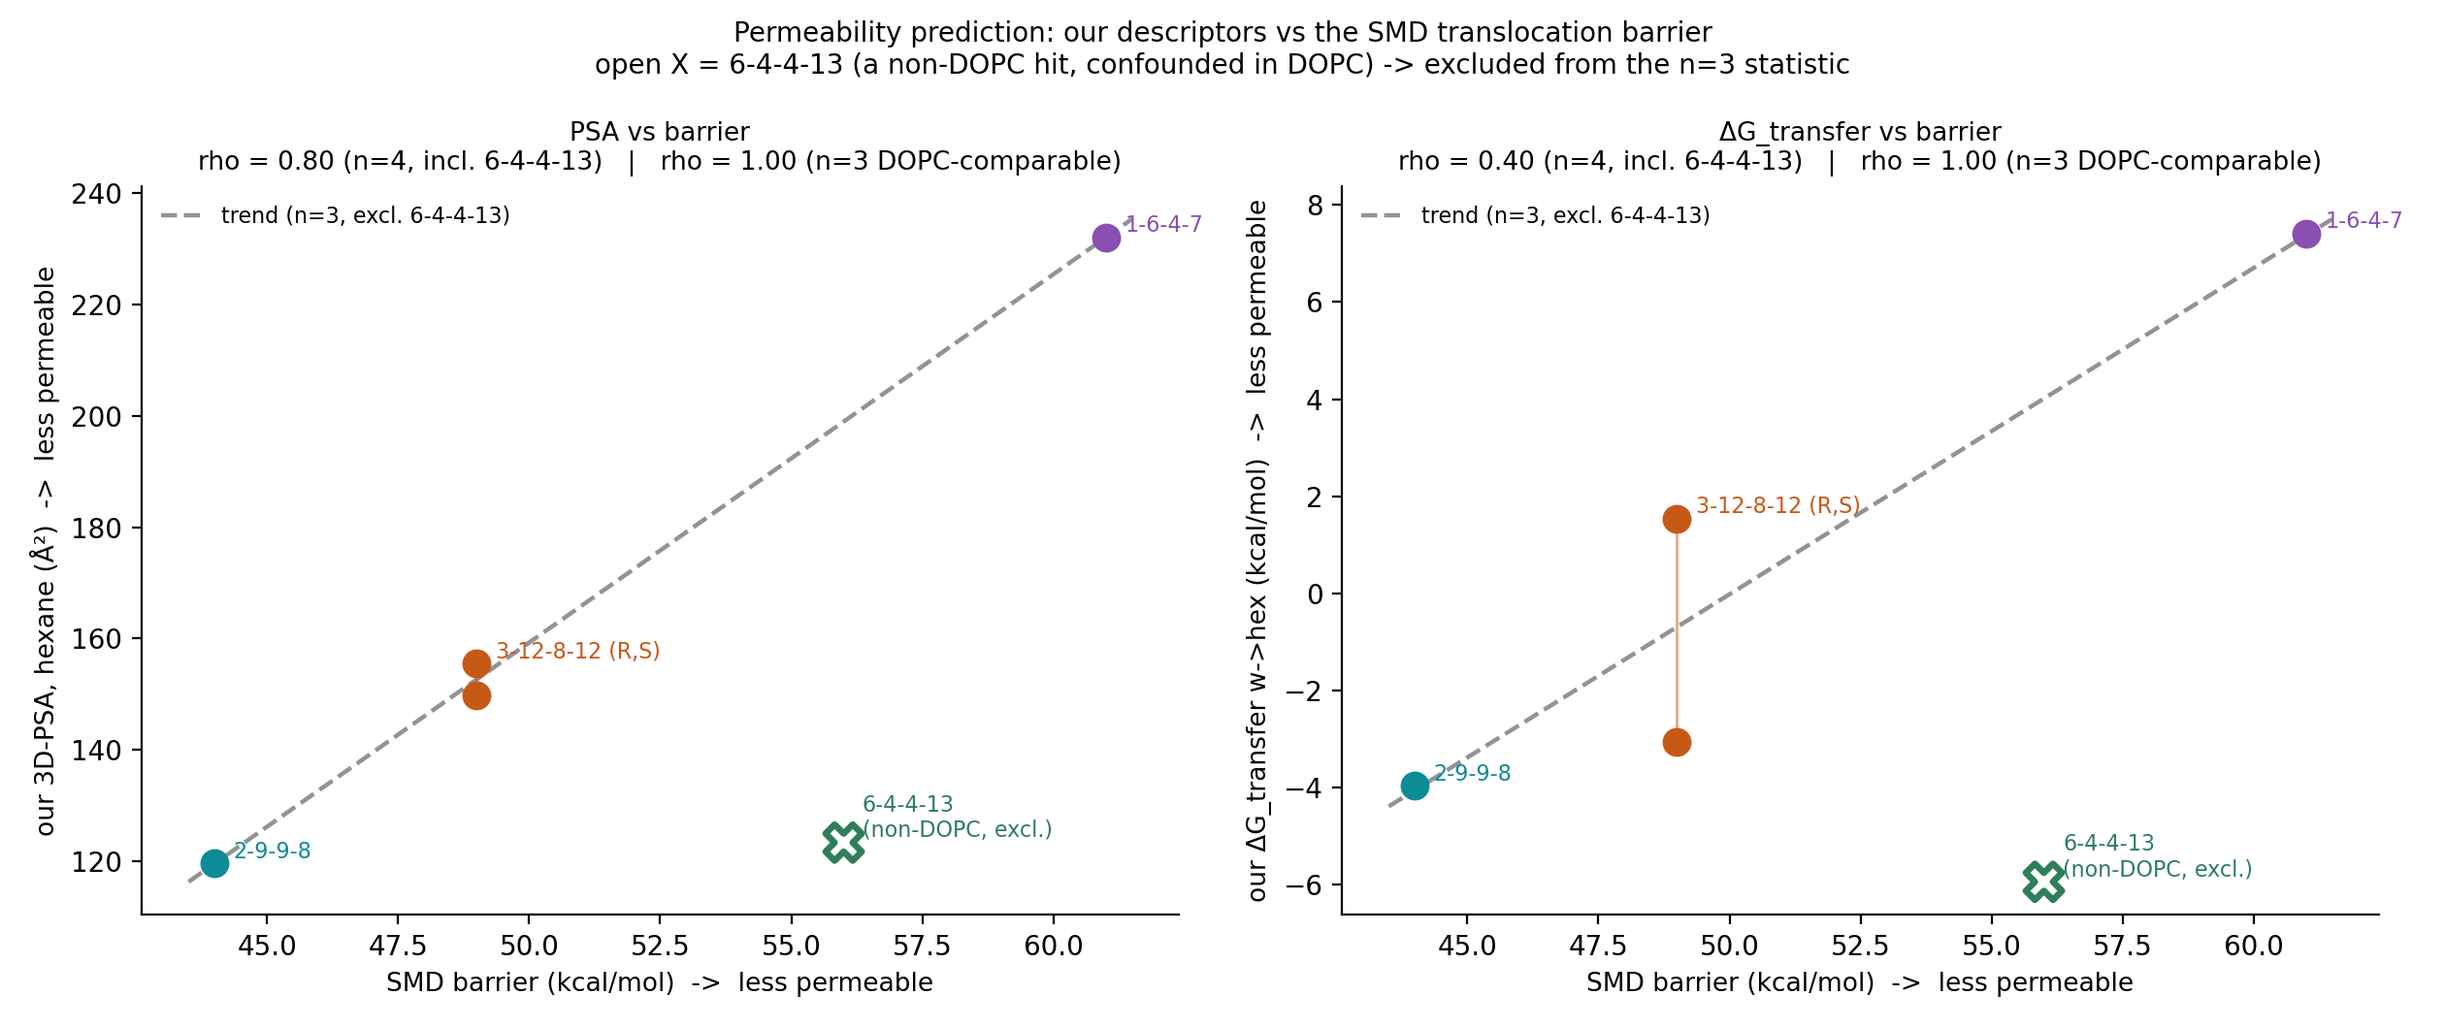
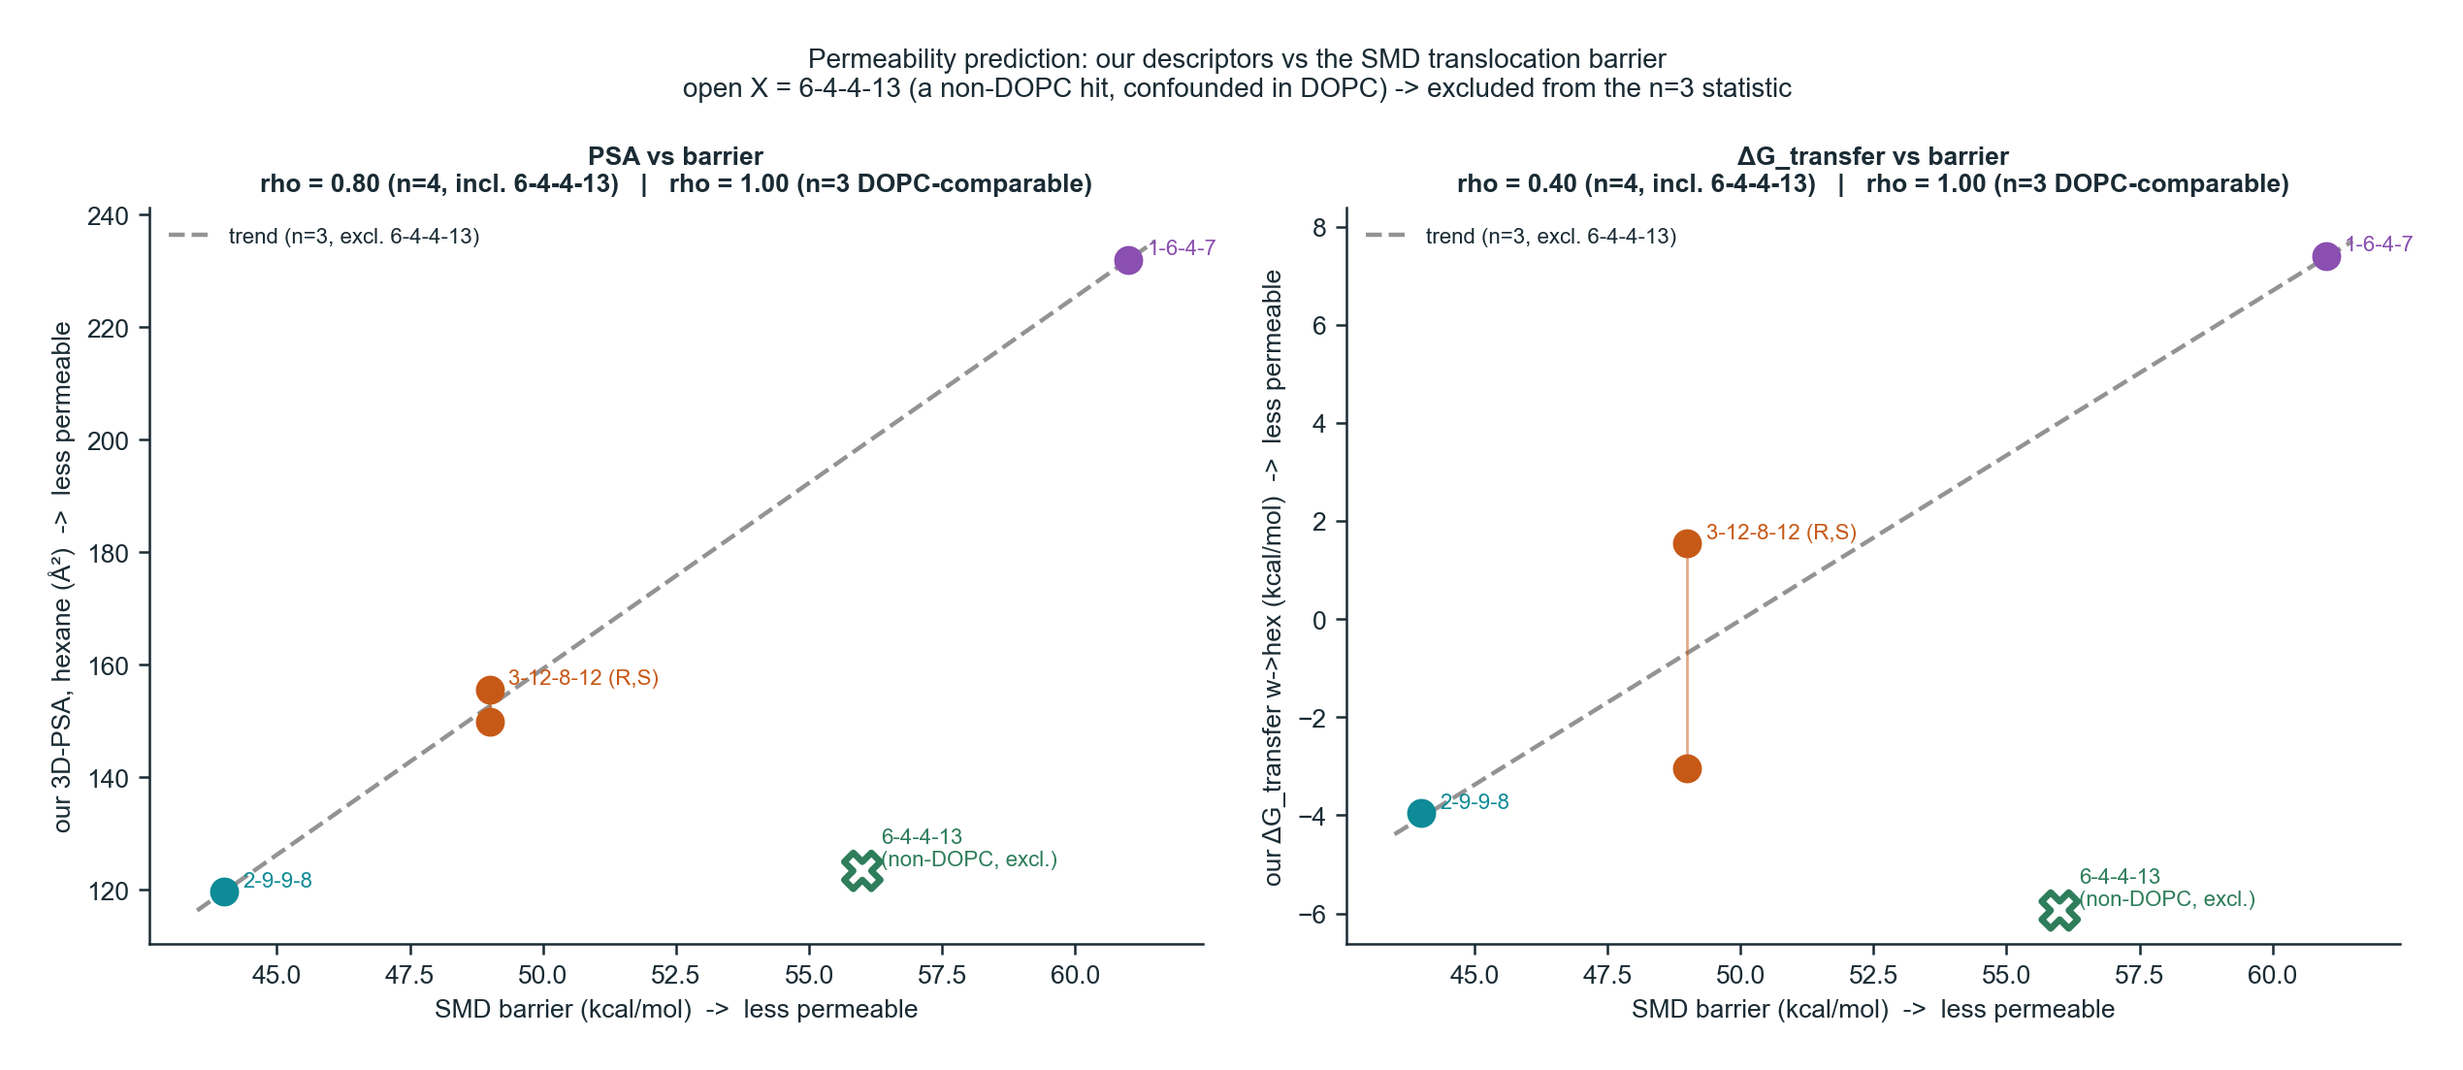
Publication-style figure cleanup + shared plot_style; Notion report for 32-hit ranking
- scripts/plot_style.py: single source of truth for figure typography + palette
  (apply() sets rcParams, C = semantic colors). Reusable across the pipeline.
- hits_permeability_ranking.py + smd_vs_implicit_stats.py: use plot_style; cleaner
  lollipops/scatters (left titles, light x-grid, consistent markers, 300 dpi, arrows).
- docs/notion/Hits32_Permeability_Ranking.md: standalone Notion-ready report for the
  32-hit permeability ranking (purpose, method, results, project implications, caveats).
- regenerated both figure sets; refreshed the 1-6-4-7 dated snapshot with the new style.

diff --git a/scripts/hits_permeability_ranking.py b/scripts/hits_permeability_ranking.py
@@ -27,17 +27,20 @@ from matplotlib.lines import Line2D
 
 sys.path.insert(0, "scripts")
 import ensemble_descriptors as ed
+import plot_style
+plot_style.apply()
+from plot_style import C
 
 HT  = Path("results/conformers/hits_transfer")
 OUT = Path("data/hits_permeability_ranking/2026-10-15")
 OUT.mkdir(parents=True, exist_ok=True)
 
-# palette
-HIT   = "#3b6ea5"   # ordinary hit
-PCCOL = "#2e7d5b"   # positive control (permeable)
-NCCOL = "#a1222a"   # negative control (impermeable)
-GREYB = "#eef3f2"
-REDB  = "#faecec"
+# shared publication palette
+HIT   = C["hit"]   # ordinary hit
+PCCOL = C["pc"]    # positive control (permeable)
+NCCOL = C["nc"]    # negative control (impermeable)
+GREYB = C["band"]
+STEM  = C["stem"]
 
 NC = "1-6-4-7"
 # positive controls from the SMD analysis (earlier xylene runs; reference values).
@@ -106,31 +109,32 @@ def colors(roles):
 def lollipop(metric, label, lo_is_permeable, pc_vals, nc_val, fname, title):
     s = allf.sort_values(metric, ascending=lo_is_permeable).reset_index(drop=True)
     y = np.arange(len(s))
-    fig, ax = plt.subplots(figsize=(9.2, 10.5))
-    # reference bands: permeable (PC) zone and impermeable (NC) line
-    ax.axvspan(min(pc_vals), max(pc_vals), color=GREYB, zorder=0,
-               label="positive-control band")
-    ax.axvline(nc_val, color=NCCOL, ls="--", lw=1.4, zorder=1)
-    ax.hlines(y, min(s[metric].min(), min(pc_vals)), s[metric], color="#c9d3d1", lw=1.2, zorder=2)
-    ax.scatter(s[metric], y, c=colors(s.role), s=70, zorder=3, edgecolor="white", linewidth=0.6)
+    fig, ax = plt.subplots(figsize=(8.6, 10.8))
+    x0 = min(s[metric].min(), min(pc_vals))
+    # reference marks: positive-control band + negative-control line
+    ax.axvspan(min(pc_vals), max(pc_vals), color=GREYB, zorder=0)
+    ax.axvline(nc_val, color=NCCOL, ls=(0, (5, 3)), lw=1.3, zorder=1)
+    ax.grid(axis="x", zorder=0)
+    ax.hlines(y, x0, s[metric], color=STEM, lw=1.1, zorder=2)
+    ax.scatter(s[metric], y, c=colors(s.role), s=78, zorder=3, edgecolor="white", linewidth=0.8)
     ax.set_yticks(y)
-    ax.set_yticklabels([f"{n}" for n in s.name], fontsize=8)
-    for yi, (nm, rl) in enumerate(zip(s.name, s.role)):
+    ax.set_yticklabels(list(s.name))
+    for yi, rl in enumerate(s.role):
         if rl != "hit":
             ax.get_yticklabels()[yi].set_color(NCCOL if rl == "NC" else PCCOL)
             ax.get_yticklabels()[yi].set_fontweight("bold")
     ax.set_xlabel(label)
-    ax.set_title(title, fontsize=11)
-    ax.margins(y=0.01)
-    ax.spines[["top", "right"]].set_visible(False)
+    ax.set_title(title, loc="left", pad=12)
+    ax.set_ylim(-0.7, len(s) - 0.3)
+    ax.set_axisbelow(True)
     handles = [
         Line2D([0], [0], marker="o", color="w", markerfacecolor=PCCOL, markersize=9, label="positive control (permeable)"),
         Line2D([0], [0], marker="o", color="w", markerfacecolor=NCCOL, markersize=9, label="negative control: 1-6-4-7 (impermeable)"),
         Line2D([0], [0], marker="o", color="w", markerfacecolor=HIT, markersize=9, label="hit"),
     ]
-    ax.legend(handles=handles, loc="lower right", fontsize=8, frameon=False)
+    ax.legend(handles=handles, loc="lower right", frameon=False)
     fig.tight_layout()
-    fig.savefig(OUT / fname, dpi=200)
+    fig.savefig(OUT / fname)
     plt.close(fig)
     return s
 
@@ -160,53 +164,53 @@ s_dpsa = lollipop("delta_psa", "ΔPSA = PSA(water) − PSA(hexane) (Å²)   ->  
 
 # Fig 3 — 2D permeability space: PSA (hexane) vs ΔG
 fig, ax = plt.subplots(figsize=(9, 7))
-ax.scatter(df.dG_transfer, df.psa_hexane, c=colors(df.role), s=80, edgecolor="white", linewidth=0.7, zorder=3)
+ax.grid(True, zorder=0); ax.set_axisbelow(True)
+ax.scatter(df.dG_transfer, df.psa_hexane, c=colors(df.role), s=85, edgecolor="white", linewidth=0.8, zorder=3)
 for _, r in df.iterrows():
     if r.role == "NC":
-        ax.annotate(r["name"] + " (NC)", (r.dG_transfer, r.psa_hexane), fontsize=9, fontweight="bold",
-                    color=NCCOL, xytext=(7, 4), textcoords="offset points")
+        ax.annotate(r["name"] + " (NC)", (r.dG_transfer, r.psa_hexane), fontweight="bold",
+                    color=NCCOL, xytext=(8, 4), textcoords="offset points")
 for k, v in PC.items():
-    ax.scatter(v["dG"], v["psa_hexane"], c=PCCOL, s=110, marker="D", edgecolor="white", linewidth=0.8, zorder=4)
-    ax.annotate(k + " (PC)", (v["dG"], v["psa_hexane"]), fontsize=9, fontweight="bold", color=PCCOL,
-                xytext=(7, 4), textcoords="offset points")
-ax.set_xlabel("ΔG_transfer water->hexane (kcal/mol)   ->   less permeable")
-ax.set_ylabel("3D-PSA, hexane leg (Å²)   ->   less permeable")
+    ax.scatter(v["dG"], v["psa_hexane"], c=PCCOL, s=120, marker="D", edgecolor="white", linewidth=0.9, zorder=4)
+    ax.annotate(k + " (PC)", (v["dG"], v["psa_hexane"]), fontweight="bold", color=PCCOL,
+                xytext=(8, 4), textcoords="offset points")
+ax.set_xlabel("ΔG_transfer water→hexane (kcal/mol)   →   less permeable")
+ax.set_ylabel("3D-PSA, hexane leg (Å²)   →   less permeable")
 ax.set_title("Permeability space: all 32 hits between the controls\n"
-             "lower-left = permeable (toward PC) · upper-right = impermeable (toward NC 1-6-4-7)", fontsize=11)
-ax.spines[["top", "right"]].set_visible(False)
+             "lower-left = permeable (toward PC) · upper-right = impermeable (toward NC 1-6-4-7)", loc="left")
 handles = [
     Line2D([0], [0], marker="D", color="w", markerfacecolor=PCCOL, markersize=10, label="positive controls (permeable)"),
     Line2D([0], [0], marker="o", color="w", markerfacecolor=NCCOL, markersize=10, label="negative control 1-6-4-7"),
     Line2D([0], [0], marker="o", color="w", markerfacecolor=HIT, markersize=10, label="hits (32)"),
 ]
-ax.legend(handles=handles, loc="upper left", fontsize=9, frameon=False)
+ax.legend(handles=handles, loc="upper left", frameon=False)
 fig.text(0.5, 0.005, "Controls from the SMD cross-check (earlier xylene runs; reference values). "
-         "1-6-4-7 is the charged (-1) re-run.", ha="center", fontsize=8, style="italic", color="#666")
+         "1-6-4-7 is the charged (−1) re-run.", ha="center", fontsize=8, style="italic", color=C["mut"])
 fig.tight_layout(rect=[0, 0.03, 1, 1])
-fig.savefig(OUT / "fig_permeability_space.png", dpi=200)
+fig.savefig(OUT / "fig_permeability_space.png")
 plt.close(fig)
 
 # Fig 3b — 2D space with the WATER-leg PSA (polar exposure) on y
 fig, ax = plt.subplots(figsize=(9, 7))
-ax.scatter(df.dG_transfer, df.psa_water, c=colors(df.role), s=80, edgecolor="white", linewidth=0.7, zorder=3)
+ax.grid(True, zorder=0); ax.set_axisbelow(True)
+ax.scatter(df.dG_transfer, df.psa_water, c=colors(df.role), s=85, edgecolor="white", linewidth=0.8, zorder=3)
 for _, r in df.iterrows():
     if r.role == "NC":
-        ax.annotate(r["name"] + " (NC)", (r.dG_transfer, r.psa_water), fontsize=9, fontweight="bold",
-                    color=NCCOL, xytext=(7, 4), textcoords="offset points")
+        ax.annotate(r["name"] + " (NC)", (r.dG_transfer, r.psa_water), fontweight="bold",
+                    color=NCCOL, xytext=(8, 4), textcoords="offset points")
 for k, v in PC.items():
-    ax.scatter(v["dG"], v["psa_water"], c=PCCOL, s=110, marker="D", edgecolor="white", linewidth=0.8, zorder=4)
-    ax.annotate(k + " (PC)", (v["dG"], v["psa_water"]), fontsize=9, fontweight="bold", color=PCCOL,
-                xytext=(7, 4), textcoords="offset points")
-ax.set_xlabel("ΔG_transfer water->hexane (kcal/mol)   ->   less permeable")
-ax.set_ylabel("3D-PSA, WATER leg (Å²)   ->   more polar-exposed in water")
+    ax.scatter(v["dG"], v["psa_water"], c=PCCOL, s=120, marker="D", edgecolor="white", linewidth=0.9, zorder=4)
+    ax.annotate(k + " (PC)", (v["dG"], v["psa_water"]), fontweight="bold", color=PCCOL,
+                xytext=(8, 4), textcoords="offset points")
+ax.set_xlabel("ΔG_transfer water→hexane (kcal/mol)   →   less permeable")
+ax.set_ylabel("3D-PSA, water leg (Å²)   →   more polar-exposed in water")
 ax.set_title("Water-leg view: aqueous polar exposure vs ΔG_transfer\n"
-             "note the chameleons: 3-12-8-12 has HIGH water PSA but low hexane PSA (opens in water, shields in membrane)", fontsize=10.5)
-ax.spines[["top", "right"]].set_visible(False)
-ax.legend(handles=handles, loc="upper left", fontsize=9, frameon=False)
+             "chameleons (e.g. 3-12-8-12 R): high water PSA but low hexane PSA — open in water, shielded in membrane", loc="left")
+ax.legend(handles=handles, loc="upper left", frameon=False)
 fig.text(0.5, 0.005, "Controls from the SMD cross-check (earlier xylene runs; reference values). "
-         "1-6-4-7 is the charged (-1) re-run.", ha="center", fontsize=8, style="italic", color="#666")
+         "1-6-4-7 is the charged (−1) re-run.", ha="center", fontsize=8, style="italic", color=C["mut"])
 fig.tight_layout(rect=[0, 0.03, 1, 1])
-fig.savefig(OUT / "fig_permeability_space_water.png", dpi=200)
+fig.savefig(OUT / "fig_permeability_space_water.png")
 plt.close(fig)
 
 # ---- console summary: where does each hit sit vs the controls? ----

diff --git a/scripts/plot_style.py b/scripts/plot_style.py
@@ -1,0 +1,63 @@
+"""Shared publication plot style for Chameleon_Predictor figures.
+
+Import and call `apply()` at the top of any plotting script so every figure in the
+project shares one typographic + color system. Single source of truth -> consistent,
+publication-ready output across the pipeline.
+
+    import plot_style; plot_style.apply()
+    from plot_style import C          # role/semantic colors
+"""
+import matplotlib as mpl
+
+# semantic palette (roles + neutrals); colorblind-safe-ish, legible on white
+C = dict(
+    hit   = "#3B6EA5",   # ordinary data point
+    pc    = "#2E7D5B",   # positive control / favorable
+    nc    = "#A1222A",   # negative control / unfavorable
+    accent= "#C75917",   # highlight
+    ink   = "#1A2B34",   # text / axes
+    mut   = "#5A6B73",   # muted text / captions
+    grid  = "#E3EAE9",   # faint gridlines
+    band  = "#EEF3F2",   # reference band fill
+    stem  = "#C6D1CF",   # lollipop stems
+)
+
+def apply():
+    mpl.rcParams.update({
+        # typography
+        "font.family":        "sans-serif",
+        "font.sans-serif":    ["Arial", "Helvetica Neue", "Helvetica", "DejaVu Sans"],
+        "font.size":          11,
+        "axes.titlesize":     12.5,
+        "axes.titleweight":   "semibold",
+        "axes.labelsize":     11,
+        "axes.labelcolor":    C["ink"],
+        "xtick.labelsize":    9.5,
+        "ytick.labelsize":    9.5,
+        "legend.fontsize":    9,
+        "figure.titlesize":   13.5,
+        # color of text/axes
+        "text.color":         C["ink"],
+        "xtick.color":        C["ink"],
+        "ytick.color":        C["ink"],
+        "axes.edgecolor":     C["ink"],
+        # spines / lines
+        "axes.linewidth":     0.9,
+        "axes.spines.top":    False,
+        "axes.spines.right":  False,
+        "xtick.major.width":  0.9,
+        "ytick.major.width":  0.9,
+        "xtick.major.size":   4,
+        "ytick.major.size":   4,
+        # grid (call ax.grid(axis=...) to enable per-plot)
+        "grid.color":         C["grid"],
+        "grid.linewidth":     0.8,
+        # figure / export
+        "figure.facecolor":   "white",
+        "axes.facecolor":     "white",
+        "savefig.facecolor":  "white",
+        "figure.dpi":         120,
+        "savefig.dpi":        300,
+        "savefig.bbox":       "tight",
+        "savefig.pad_inches": 0.25,
+    })

diff --git a/scripts/smd_vs_implicit_stats.py b/scripts/smd_vs_implicit_stats.py
@@ -21,9 +21,13 @@ Outputs (all into  data/6mer comparison/ ): 6 figures + 4 CSVs. Pure-numpy (no s
 import csv, itertools
 from pathlib import Path
 import numpy as np
+import sys
 import matplotlib
 matplotlib.use("Agg")
 import matplotlib.pyplot as plt
+sys.path.insert(0, "scripts")
+import plot_style
+plot_style.apply()
 
 OUT = Path("data/6mer comparison"); OUT.mkdir(parents=True, exist_ok=True)
 MOLS = ["2-9-9-8", "3-12-8-12", "6-4-4-13", "1-6-4-7"]      # Cmp1, Cmp2, Cmp4, Cmp3

diff --git a/docs/notion/Hits32_Permeability_Ranking.md b/docs/notion/Hits32_Permeability_Ranking.md
@@ -1,0 +1,77 @@
+# 32-Hit Permeability Ranking — Physics Pipeline vs Controls
+
+*Status: complete (2026-10-15) · Scope: ortho 6-mer macrocycle hits · Pipeline: CREST → CPCM-X → 3D descriptors*
+
+## 1. Purpose
+
+Can the physics pipeline place a library of 32 ortho 6-mer hits on a single permeability axis anchored by known controls? Specifically:
+
+- **Negative control (impermeable):** `1-6-4-7` — a charged (−1) cysteic-acid macrocycle expected to be membrane-impermeable.
+- **Positive controls (permeable):** `2-9-9-8`, `3-12-8-12` (R and S) — hits with favorable SMD permeability.
+
+The question for the project: does the pipeline (a) correctly separate the controls, and (b) distribute the remaining hits in a chemically-sensible way between them?
+
+## 2. Method
+
+All descriptors come from the shippable pipeline — nothing bespoke:
+
+1. **Conformers:** CREST iMTD-GC (GFN2-xTB + ALPB), water and hexane legs (`crest_engine.py`).
+2. **Energies:** CPCM-X single-point ΔG_solv + Boltzmann populations per leg (`free_energy_calculator.py`).
+3. **3D descriptors:** `ensemble_descriptors.py` (`process_compound`), **Boltzmann-weighted by the CPCM-X populations** (required `--energies-csv`, no fallback).
+4. **Ranking + figures:** `hits_permeability_ranking.py` (a plotting wrapper that computes nothing itself; caches `all_hits_descriptors.csv`).
+
+**Predictors used** (validated against explicit-solvent SMD, ρ = 1.00 on the DOPC-comparable set):
+- **3D-PSA, hexane (membrane) leg** — lower = more permeable.
+- **ΔG_transfer (water → hexane)** — more negative = more permeable.
+- **ΔPSA = PSA(water) − PSA(hexane)** — chameleonicity (mechanism, not a permeability rank at this size).
+
+Charge states are audited (the three cysteic-acid hits `1-6-4-7`, `1-8-9-2`, `1-9-1-5` run at −1). Controls are earlier xylene runs used as reference values.
+
+## 3. Results
+
+**The negative-control end is clean and physically sensible.** `1-6-4-7` is the single least-permeable of all 32 (PSA 232 Å², ΔG +7.4 kcal/mol), and its two charged cysteic-acid siblings flank it:
+
+| compound | PSA hexane (Å²) | ΔG_transfer (kcal/mol) |
+|---|---|---|
+| 1-6-4-7 (NC) | 232 | +7.4 |
+| 1-8-9-2 | 214 | +8.4 |
+| 1-9-1-5 | 220 | +6.2 |
+
+The three −1 sulfonates form a tight impermeable cluster at the upper-right of the permeability space. **No hit is predicted less permeable than the NC.**
+
+**Hits span a wide permeability range.** From very permeable (`4-11-1-7`, PSA 88, ΔG −5.3) up to the charged cluster. PSA(hexane) and ΔG_transfer agree in direction at both extremes.
+
+**The positive controls sit mid-pack, not at the permeable extreme.** PC PSA band = 120–156 Å². Of the remaining hits: **18 are *more* permeable than the least-permeable PC**, and **13 fall between the PC band and the NC**. So the "between PC and NC" expectation holds firmly on the NC side; on the PC side the pipeline predicts many hits *better* than the positive controls.
+
+**ΔPSA (chameleonicity) is a different axis — not a permeability rank at 6-mer size.** The NC `1-6-4-7` sits at ΔPSA ≈ 0 (a charged sulfonate can't bury its polar surface), but the *permeable* PC `2-9-9-8` is also ≈ 0 — it is permeable by being *constitutively nonpolar*, not by shape-shifting. ΔPSA therefore does not separate PC from NC. This matches the known scope: chameleonicity is a ≥9-mer phenomenon; at small-macrocycle size, **absolute apolar-PSA and ΔG_transfer are the discriminators.**
+
+### Figures (`data/hits_permeability_ranking/2026-10-15/`)
+- `fig_rank_psa_hexane.png` — 32 hits ranked by membrane-leg PSA (primary permeability view)
+- `fig_rank_dG_transfer.png` — ranked by ΔG_transfer
+- `fig_rank_delta_psa.png` — ranked by Boltzmann-weighted ΔPSA (chameleonicity)
+- `fig_rank_psa_water.png` — ranked by water-leg PSA (aqueous polar exposure)
+- `fig_permeability_space.png` — 2D PSA(hexane) vs ΔG
+- `fig_permeability_space_water.png` — 2D PSA(water) vs ΔG
+- `all_hits_descriptors.csv` — the underlying data for all 32
+
+## 4. What this means for the project
+
+- **The permeability-*ranking* capability is validated and provenance-clean.** The pipeline separates the controls correctly and ranks a 32-member library sensibly, with a chemically-correct charged negative-control cluster.
+- **The limitation is now a characterized boundary.** Geometry/chameleonicity (Rgyr, ΔPSA) is not reliable at small-macrocycle size — implicit solvent under-samples the open state (the companion charged-`1-6-4-7` re-analysis showed the correct charge did *not* open its geometry). Claim permeability ranking; do not claim chameleonicity prediction for ≤~7-mers.
+- **The next unlock is calibration, not more physics.** Magnitude is a free parameter; this is a *ranking*, not calibrated absolute permeability. Anchoring the axis against experimental data (DZALK live-cell, CHUGAI PAMPA) converts ranking → prediction and feeds the ML layer.
+
+## 5. Caveats
+
+- Positive controls are earlier xylene runs (different provenance) used as reference. A fully apples-to-apples panel would re-run `2-9-9-8` / `3-12-8-12` / `6-4-4-13` through the current batch.
+- No experimental permeability for the 32 hits yet, so the axis is uncalibrated (ranking only).
+- 6-mer scope: ΔPSA/shape features are not expected to discriminate here.
+
+## 6. Reproduce
+
+```bash
+# descriptors come from the pipeline; ranking + figures:
+conda run -n rdkit_env python scripts/hits_permeability_ranking.py            # reuses cached descriptors
+conda run -n rdkit_env python scripts/hits_permeability_ranking.py --recompute # force recompute from ensembles
+```
+
+Related: companion re-analysis `docs/experiments/2026-10-15_smd_1647_charged_reanalysis.md`; SMD cross-check `data/6mer comparison/SMD_vs_implicit_analysis.md`.
